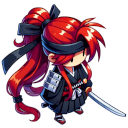
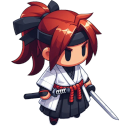
add "orc" job with attributes and update map data to use "orc"

diff --git a/app/src/Scenes/Battleground/Map/Events/POINTER_MOVE.ts b/app/src/Scenes/Battleground/Map/Events/POINTER_MOVE.ts
@@ -3,6 +3,7 @@ import BattlegroundScene from "../../BattlegroundScene";
 import { Vec2 } from "../../../../Models/Geometry";
 import { Unit } from "../../../../Models/Unit";
 import { listen, signals } from "../../../../Models/Signals";
+import { FORCE_ID_PLAYER } from "../../../../Models/Force";
 
 export function onPointerMove(
 	bgLayer: Phaser.Tilemaps.TilemapLayer,
@@ -18,6 +19,7 @@ export function onPointerMove(
 
 			if (!pointer.isDown) return;
 			if (pointer.downTime < 100) return;
+			if (pointerDownUnit.unit?.force !== FORCE_ID_PLAYER) return
 
 			const dx = pointer.downX - pointer.x;
 			const dy = pointer.downY - pointer.y;

diff --git a/app/src/Models/Job.ts b/app/src/Models/Job.ts
@@ -114,6 +114,25 @@ export const jobs: Job[] = [
     },
     skill: "fireball"
   },
+  {
+    id: "orc",
+    name: "Orc",
+    gold: 100,
+    attackRange: 1,
+    attackPower: 10,
+    dices: 2,
+    stats: {
+      hp: 400,
+      mana: 0,
+      attack: 10,
+      defense: 10,
+      mgkAttack: 0,
+      mgkDefense: 0,
+      accuracy: 10,
+      agility: 8,
+    },
+    skill: "attack"
+  },
 ];
 
 export const getJob = (id: string): Job => {

diff --git a/app/src/Scenes/Battleground/preload.ts b/app/src/Scenes/Battleground/preload.ts
@@ -5,6 +5,7 @@ const jobs = [
 	'monk',
 	'cleric',
 	'soldier',
+	'orc',
 ]
 
 const fxs = ['cethiel_light'];
